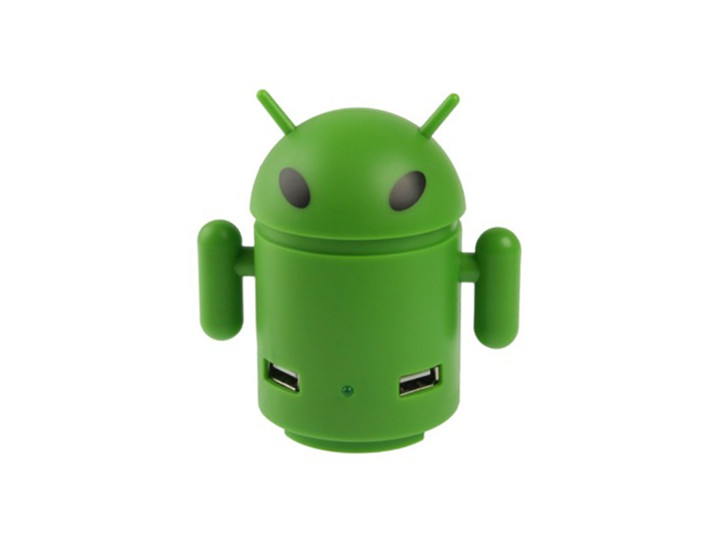
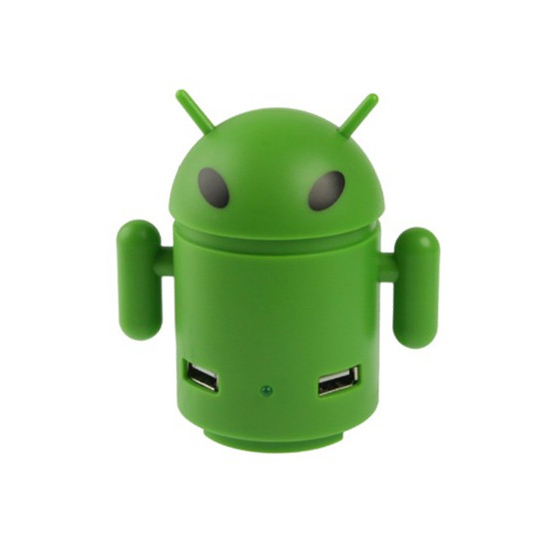
New product

Changed region(s): [[0.5274, 0.1551, 0.8066, 0.8376], [0.1861, 0.1551, 0.4653, 0.8376]]

diff --git a/accessories/android-display-case.html b/accessories/android-display-case.html
@@ -17,57 +17,66 @@
 
 <nav><header><a href="/">bugdroid.org</a>/<a href="../accessories">accessories</a>/android-display-case</header></nav>
 
-<h1>Android Display Case</h1>
+<h1>Android Display Case <small style="font-size:15px">Sqaure</small></h1>
 
 <div class="individual">
-<div class="box" id="Gallery">
-    <img src="../media/products/figure-display-hex.jpg" class="slides">
-    <img src="../media/products/figure-display-hexes.jpg" class="slides">
-    <img src="../media/products/figure-display-stacked-hexes.jpg" class="slides">
-    <img src="../media/products/figure-display-square.jpg" class="slides">
-    <img src="../media/products/figure-display-squares.jpg" class="slides">
-    <img src="../media/products/figure-display-stacked-squares.jpg" class="slides">
-    <img src="../media/products/figure-display-art.jpg" class="slides">
+    <div class="box" id="Gallery">
+        <img src="../media/products/figure-display-case-square-1.jpg" class="slides">
+        <img src="../media/products/figure-display-case-square-2.jpg" class="slides">
+        <img src="../media/products/figure-display-case-square-3.jpg" class="slides">
+        <img src="../media/products/figure-display-case-art.jpg" class="slides">
 
-    <header><button onclick="prevSlide()">◀</button> <button onclick="nextSlide()">▶</button></header>
-</div>
+        <header><button onclick="prevSlide()">◀</button> <button onclick="nextSlide()">▶</button></header>
+    </div>
 
-<div class="texts">
-<div class="box" id="About">
-    <header>About</header>
-    <p>The <b>Android Display Case</b> is a protective figurine display case for the <a href="../figurines">figurines</a>.
-       They offer UV protection for the figurines and can stack/attach to other cases.</p>
-    <p>It appears that the bases were also available in white.</p>
-    
-    <details>
-        <summary>View original Dead Zebra Shop synopsis</summary>
-        <p>These display cases are engineered specifically with the collector in mind! Each base
-           is designed to fit snugly with other bases, subtly tapered tops allow for easy stacking. Create
-           a custom and flexible display for your Android collectibles, Dunnys, Be@rbricks or other mini figures!</p>
-        <p>The high quality clear acrylic tops keep your collectibles dust free, while filtering out 60% of the UV rays that
-           can degrade the materials and paint colors of your collectibles. There’s no big ugly circular injection point on the
-           top of these cases, we moved the injection points off to the side and made them virtually invisible!</p>
-    </details>
-    <details>
-        <summary>View original Android Foundry synopsis</summary>
-        <p>Engineered with the collector in mind! Each base is designed to fit snugly with other bases, subtly tapered tops allow
-           for easy stacking. Create a custom and flexible display for your Android collectibles, Dunnys, Be@rbricks or other mini
-           figures! More information available here!</p>
-    </details>
-</div>
+    <div class="texts">
+        <div class="box" id="About">
+            <header>About</header>
+            <p>The <b>Android Display Case</b> is a protective figurine display case for the <a href="../figurines">figurines</a>.
+            They offer UV protection for the figurines and can stack/attach to other cases.</p>
+            <p>It appears that the bases were also available in white.</p>
+            
+            <details>
+                <summary>View original Dead Zebra Shop synopsis</summary>
+                <p>These display cases are engineered specifically with the collector in mind! Each base
+                is designed to fit snugly with other bases, subtly tapered tops allow for easy stacking. Create
+                a custom and flexible display for your Android collectibles, Dunnys, Be@rbricks or other mini figures!</p>
+                <p>The high quality clear acrylic tops keep your collectibles dust free, while filtering out 60% of the UV rays that
+                can degrade the materials and paint colors of your collectibles. There’s no big ugly circular injection point on the
+                top of these cases, we moved the injection points off to the side and made them virtually invisible!</p>
+            </details>
+            <details>
+                <summary>View original Android Foundry synopsis</summary>
+                <p>Engineered with the collector in mind! Each base is designed to fit snugly with other bases, subtly tapered tops allow
+                for easy stacking. Create a custom and flexible display for your Android collectibles, Dunnys, Be@rbricks or other mini
+                figures! More information available here!</p>
+            </details>
+        </div>
 
-<div class="box" id="Info">
-    <header>Information</header>
-    <ul>
-        <li><mark>Full Name:</mark> <b>Display Case - Square Black Single</b> and <b>Display Case - Square Black Single</b></li>
-        <li><mark>Manufacturer:</mark> Dyzplastic</li>
-        <li><mark>Release Year:</mark> ~2012</li>
-        <li><mark>Price:</mark> $5.00</li>
-        <br>
-        <li><a href="http://www.androidfiguren.de/epages/62924100.sf/en_US/?ViewObjectPath=%2FShops%2F62924100%2FProducts%2FAF_Android_SingleDisplay%2FSubProducts%2FAF_Android_SingleDisplay-hexagon">View on Dead Zebra Shop (archived)</a></li>
-    </ul>
-</div>
-</div>
+        <div class="box" id="Info">
+            <header>Information</header>
+            <ul>
+                <li><mark>Full Name:</mark> <b>Display Case - Square Black Single</b></li>
+                <li><mark>Manufacturer:</mark> Dyzplastic</li>
+                <li><mark>Release Year:</mark> 2012</li>
+                <li><mark>Price:</mark> $5.00</li>
+                <br>
+                <li><a href="http://www.androidfiguren.de/epages/62924100.sf/en_US/?ViewObjectPath=%2FShops%2F62924100%2FProducts%2FAF_Android_SingleDisplay%2FSubProducts%2FAF_Android_SingleDisplay-hexagon">View on Dead Zebra Shop (archived)</a></li>
+            </ul>
+        </div>
+        <div class="box" id="Extras">
+            <header>Extras</header>
+            <details>
+                <summary>View hexagon variant</summary>
+                <figure>
+                    <img src="../media/products/figure-display-case-hex-1.jpg">
+                    <img src="../media/products/figure-display-case-hex-2.jpg">
+                    <img src="../media/products/figure-display-case-hex-3.jpg">
+                    <figcaption><b>Display Case - Square Black Single</b></figcaption>
+                </figure>
+            </details>
+        </div>
+    </div>
 </div>
 
 </body>

diff --git a/accessories/android-robot-usb-hub.html b/accessories/android-robot-usb-hub.html
@@ -1,0 +1,109 @@
+<!DOCTYPE html>
+<html lang="en">
+<head>
+    <title>Android Robot USB Hub</title>
+    <meta content="Android Robot USB Hub" property="og:title">
+    <meta content="Android Robot USB Hub is shaped like a Bugdroid can be used to connect 4 devices simultaneously." property="og:description">
+    <meta content="https://bugdroid.org/media/products/android-robot-usb-hub.jpg" property="og:image">
+    <meta content="https://bugdroid.org/accessories/android-robot-usb-hub" property="og:url">
+    <meta content="#A4C639" data-react-helmet="true" name="theme-color">
+    <meta name="keywords" content="FTG-0213, KIPXG9685, UHUBS035600, USB hub, Bugdroid, Droid, Android, Google">
+    <meta name="viewport" content="width=device-width, initial-scale=1.0">
+    <link rel="stylesheet" href="../meta/droid.css">
+    <link rel="icon" type="image/x-icon" href="../meta/package.ico">
+    <script src="../meta/slides.js" defer></script>
+</head>
+<body>
+
+<nav><header><a href="/">bugdroid.org</a>/<a href="../accessories">accessories</a>/android-robot-usb-hub</header></nav>
+
+<h1>Android Robot USB Hub</h1>
+
+<div class="individual">
+    <div class="box" id="Gallery">
+        <img src="../media/products/android-robot-usb-hub.jpg" class="slides">
+
+        <header><button disabled>◀</button> <button disabled>▶</button></header>
+    </div>
+
+    <div class="texts">
+        <div class="box" id="About">
+            <header>About</header>
+            <p><b>Android Robot USB Hub</b> is shaped like a Bugdroid can be used to connect
+                4 devices simultaneously. One interesting design choice is the usage of alien-like eyes. <img src="../meta/emotes/mad.png" class="emo" alt=""></p>
+            <p>This is a <a href="https://en.wikipedia.org/wiki/White-label_product">white label product</a> from FRIC.</p>
+            <details>
+                <summary>View KIP synopsis</summary>
+                <p>Awareness Among The Customers A great amount of awareness of your brand can be
+                   achieved among your customer by equipping them with Android Robot Shaped USB Hub
+                   which has great features that includes plug and play 4 usb ports led indicator usb
+                   cable usb 2.0 speed and your customers can use it as connecting usb devices.
+                   Product Size: 9.5 x 8.5 x 5.5 cm</p>
+            </details>
+            <details>
+                <summary>View usb.brando.com synopsis</summary>
+                <p>USB Robot 4-Port Hub II allows you to connect 4 different USB devices. It's
+                   another little fancy stuff on your desk.</p>
+                <ul>
+                    <li style="list-style:none;font-weight:bold">Features:</li>
+                    <li>Robot shaped design</li>
+                    <li>USB 1.1 4-Port Hub</li>
+                    <li>Plug and Play</li>
+                    <li>Supports Windows 10 / 8 / 7 / Vista, Mac and Linux</li>
+                    <li>Dimension: 80 x 54 x 90mm (approx.)</li>
+                    <li>Weight: 43g</li>
+                    <li style="list-style:none;font-weight:bold">Package Contents:</li>
+                    <li>USB Robot 4-Port Hub II</li>
+                    <li>USB Cable</li>
+                </ul>
+            </details>
+        </div>
+
+        <div class="box" id="Info">
+            <header>Information</header>
+            <ul>
+                <li><mark>Full Name:</mark> <b>Android Robot USB Hub</b></li>
+                <li><mark>Manufacturer:</mark> Fric (Guangzhou) Packing Company Limited</li>
+                <li><mark>Release Year:</mark> ~2015 <!--first snapshot was brando's in 2015--></li>
+                <li><mark>ID:</mark> FTG-0213</li>
+                <li><mark>Price:</mark> Unknown</li>
+                <br>
+                <li><a href="https://www.gzfric.com/promotional-gift-4/telecom-gift/ftg-0244-android-mini-mp3">View on FRIC</a></li>
+            </ul>
+        </div>
+        <div class="box" id="Extras">
+            <header>Extras</header>
+            <details>
+                <summary>View usb.brando.com product</summary>
+                <figure>
+                    <figcaption>This was licensed to usb.brando.com.</figcaption><br>
+                    <img src="../media/products/android-robot-usb-hub-brando-1.jpg"> <img src="../media/products/android-robot-usb-hub-brando-2.jpg"> <img src="../media/products/android-robot-usb-hub-brando-3.jpg"> <img src="../media/products/android-robot-usb-hub-brando-4.jpg"> <img src="../media/products/android-robot-usb-hub-brando-5.jpg">
+                </figure>
+            </details>
+            <details>
+                <summary>View KeepItPromo product</summary>
+                <figure>
+                    <figcaption>This was licensed to KeepItPromo, which was then licensed to other companies.</figcaption><br>
+                    <img src="../media/products/android-robot-usb-hub-kip-1.jpg">
+                    <img src="../media/products/android-robot-usb-hub-kip-2.jpg">
+                    <img src="../media/products/android-robot-usb-hub-kip-3.jpg">
+                    <img src="../media/products/android-robot-usb-hub-kip-4.jpg">
+                    <img src="../media/products/android-robot-usb-hub-kip-5.jpg">
+                    <img src="../media/products/android-robot-usb-hub-kip-6.jpg">
+                    <img src="../media/products/android-robot-usb-hub-kip-7.jpg">
+                    <img src="../media/products/android-robot-usb-hub-kip-8.jpg">
+                    <img src="../media/products/android-robot-usb-hub-kip-9.jpg">
+                    <img src="../media/products/android-robot-usb-hub-kip-10.jpg">
+                    <img src="../media/products/android-robot-usb-hub-kip-11.jpg">
+                    <img src="../media/products/android-robot-usb-hub-kip-12.jpg">
+                    <img src="../media/products/android-robot-usb-hub-kip-13.jpg">
+                    <img src="../media/products/android-robot-usb-hub-kip-14.jpg">
+                    <p>Fun Fact: This product has the most official images taken of it.  <img src="../meta/emotes/pokerface.png" class="emo" alt="" style="width:24px;height:24px"></p>
+                </figure>
+            </details>
+        </div>
+    </div>
+</div>
+
+</body>
+</html>

diff --git a/accessories/andru-charger.html b/accessories/andru-charger.html
@@ -7,7 +7,7 @@
     <meta content="https://bugdroid.org/media/products/andru-charger.png" property="og:image">
     <meta content="https://bugdroid.org/accessories/andru-charger" property="og:url">
     <meta content="#A4C639" data-react-helmet="true" name="theme-color">
-    <meta name="keywords" content="charger, accessories, Andru, Gen, Bugdroid, Droid, Android, Google">
+    <meta name="keywords" content="FTG-0192, charger, accessories, Andru, Gen, Bugdroid, Droid, Android, Google">
     <meta name="viewport" content="width=device-width, initial-scale=1.0">
     <link rel="stylesheet" href="../meta/droid.css">
     <link rel="icon" type="image/x-icon" href="../meta/package.ico">
@@ -35,8 +35,8 @@
         <div class="box" id="About">
             <header>About</header>
             <p>The <b>ANDRU USB Phone Charger</b> is a smartphone charger designed off Bugdroid. Bugdroid's legs get plugged
-            into the wall and when not used it can be on display.</p>
-            <p>Later on, a <a href="../media/products/andru-charger-travel-adapter.jpg">travel adapter</a> was released.</p>
+            into the wall and when not used it can be on display. Later on, a <a href="../media/products/andru-charger-travel-adapter.jpg">travel adapter</a> was released.</p>
+            <p>This is a <a href="https://en.wikipedia.org/wiki/White-label_product">white label product</a> from FRIC.</p>
             <details>
                 <summary>View original Gen Shop synopsis</summary>
                 <p>Andru is a spectacular phone charger made especially for Android phones, though he'll gladly charge any phone or USB-powered device. His included cable has a micro-USB plug, but you can use your own if your device requires it. Let him keep you company at your desk, playfully tousle his antennae, tell him your problems. He's here for you. </p>
@@ -47,7 +47,7 @@
             <header>Information</header>
             <ul>
                 <li><mark>Full Name:</mark> <b>Andru USB Phone Charger</b></li>
-                <li><mark>Manufacturer:</mark> Robertson Marketing</li>
+                <li><mark>Manufacturer:</mark> Fric (Guangzhou) Packing Company Limited</li>
                 <li><mark>Release Year:</mark> 2012</li>
                 <li><mark>Price:</mark> $25</li>
                 <br>
@@ -57,13 +57,10 @@
         <div class="box" id="Extras">
             <header>Extras</header>
             <details>
-                <summary>View counterfeit</summary>
-                <p>Gen released this product around the start of 2012. A company, Fric Packaging, has also released
-                   an extremely similar device with their company wordmark on it.</p>
-                <br>
-                <img src="../media/products/andru-charger-fric.jpg" style="width:100%">
-                <p>The name of this product is <b>Android Travel Charger</b> with
-                   a product ID of <b>FTG-0192</b>. No mention of FRIC appears on Gen's website, and vice versa.</p>
+                <summary>View OEM</summary>
+                <p>The original manufacturer of this product had <b>Android Travel Charger</b> as the name with
+                   their logo on it. It has an ID of <b>FTG-0192</b>.</p>
+                <p><img src="../media/products/andru-charger-fric.jpg" style="width:100%"></p>
                 </div>
             </details>
         </div>

diff --git a/accessories/index.html b/accessories/index.html
@@ -8,7 +8,7 @@
     <meta content="https://bugdroid.org/accessories" property="og:url">
     <meta content="#A4C639" data-react-helmet="true" name="theme-color">
     <meta name="twitter:card" content="summary_large_image">
-    <meta name="keywords" content="Accessories, backpacks, umbrella, Bugdroid, Droid, Android, Google">
+    <meta name="keywords" content="accessories, lifestyle, electronics, Bugdroid, Droid, Android, Google">
     <meta name="viewport" content="width=device-width, initial-scale=1.0">
     <link rel="stylesheet" href="../meta/droid.css">
     <link rel="icon" type="image/x-icon" href="../meta/package.ico">
@@ -62,8 +62,14 @@
     <span class="year">2017</span> <span class="price">$7</span>
   </div></a>
 
+  <a href="android-robot-usb-hub"><div class="box">
+    <img src="../media/products/android-robot-usb-hub.jpg">
+    <p>Android Robot USB Hub</p>
+    <span class="year">2015</span> <span class="price">€5.90</span>
+  </div></a>
+
   <a href="android-display-case"><div class="box">
-    <img src="../media/products/figure-display-hex.jpg">
+    <img src="../media/products/figure-display-case-square-1.jpg">
     <p>Android Display Case</p>
     <span class="year">2012</span> <span class="price">$5</span>
   </div></a>
@@ -111,7 +117,7 @@
   </div></a>
 
   <a href="nexus-one-pouch"><div class="box">
-    <img src="../media/products/nexus-one-pouch.png">
+    <img src="../media/products/nexus-one-pouch-1.jpg">
     <p>Nexus One Pouch</p>
     <span class="year">2010</span>
   </div></a>

diff --git a/accessories/nexus-one-pouch.html b/accessories/nexus-one-pouch.html
@@ -4,7 +4,7 @@
     <title>Nexus One Pouch</title>
     <meta content="Nexus One Pouch" property="og:title">
     <meta content="The Nexus One Pouch is a black cloth pouch. It has a grey Bugdroid peeking from the bottom of it." property="og:description">
-    <meta content="https://bugdroid.org/media/products/nexus-one-pouch.png" property="og:image">
+    <meta content="https://bugdroid.org/media/products/nexus-one-pouch-1.jpg" property="og:image">
     <meta content="https://bugdroid.org/accessories/nexus-one-pouch" property="og:url">
     <meta content="#A4C639" data-react-helmet="true" name="theme-color">
     <meta name="keywords" content="pouch, accessories, Nexus, Bugdroid, Droid, Android, Google">
@@ -21,8 +21,8 @@
 
 <div class="individual">
 <div class="box" id="Gallery">
-    <img src="../media/products/nexus-one-pouch.png" class="slides">
-    <img src="../media/products/nexus-one-pouch-phone.png" class="slides">
+    <img src="../media/products/nexus-one-pouch-1.jpg" class="slides">
+    <img src="../media/products/nexus-one-pouch-2.jpg" class="slides">
    
     <header><button onclick="prevSlide()">◀</button> <button onclick="nextSlide()">▶</button></header>
 </div>
